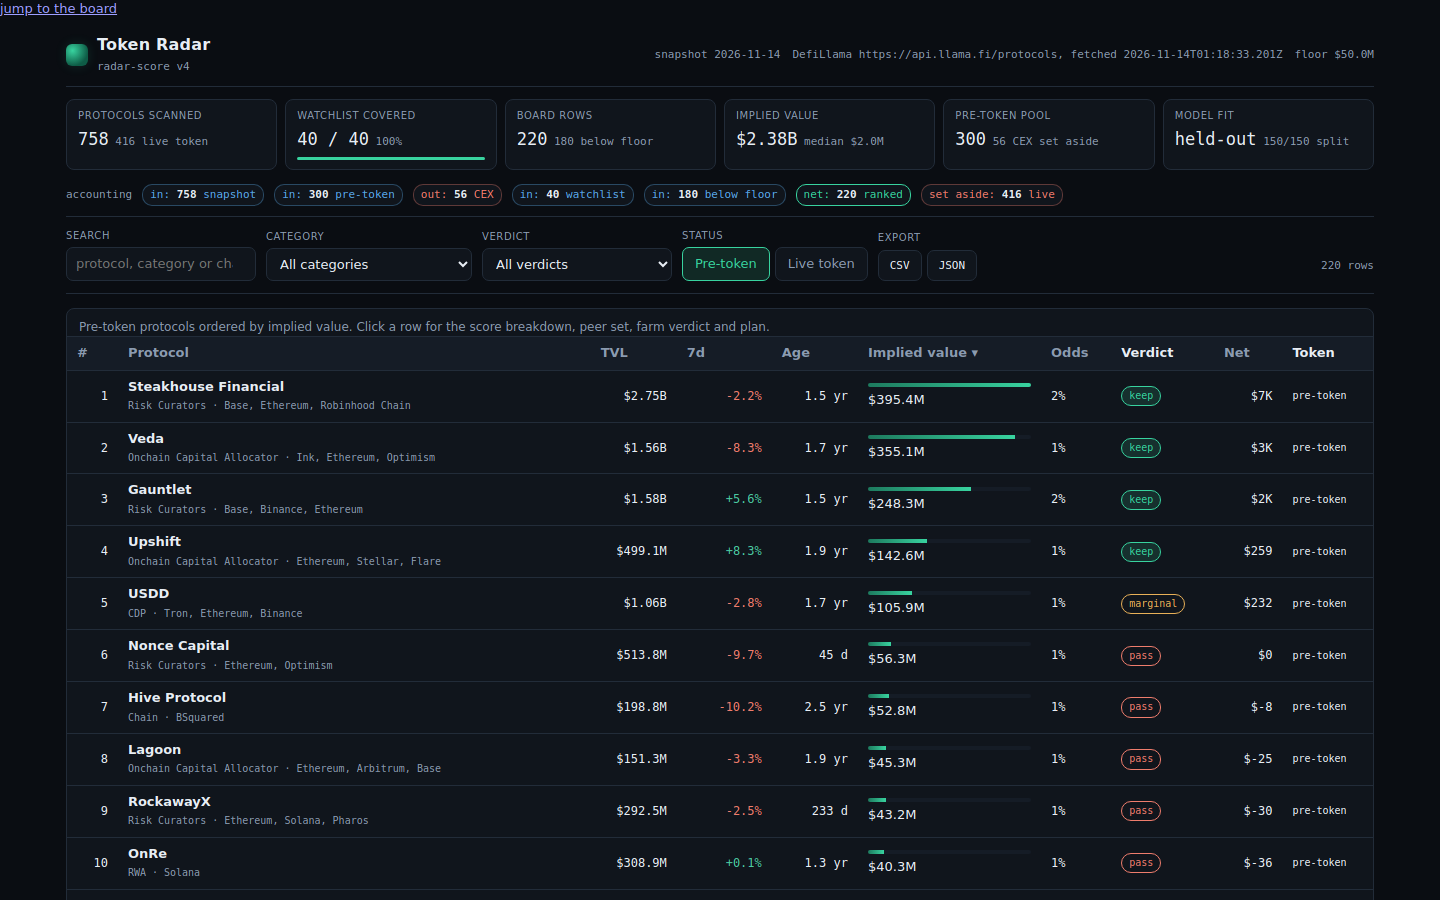
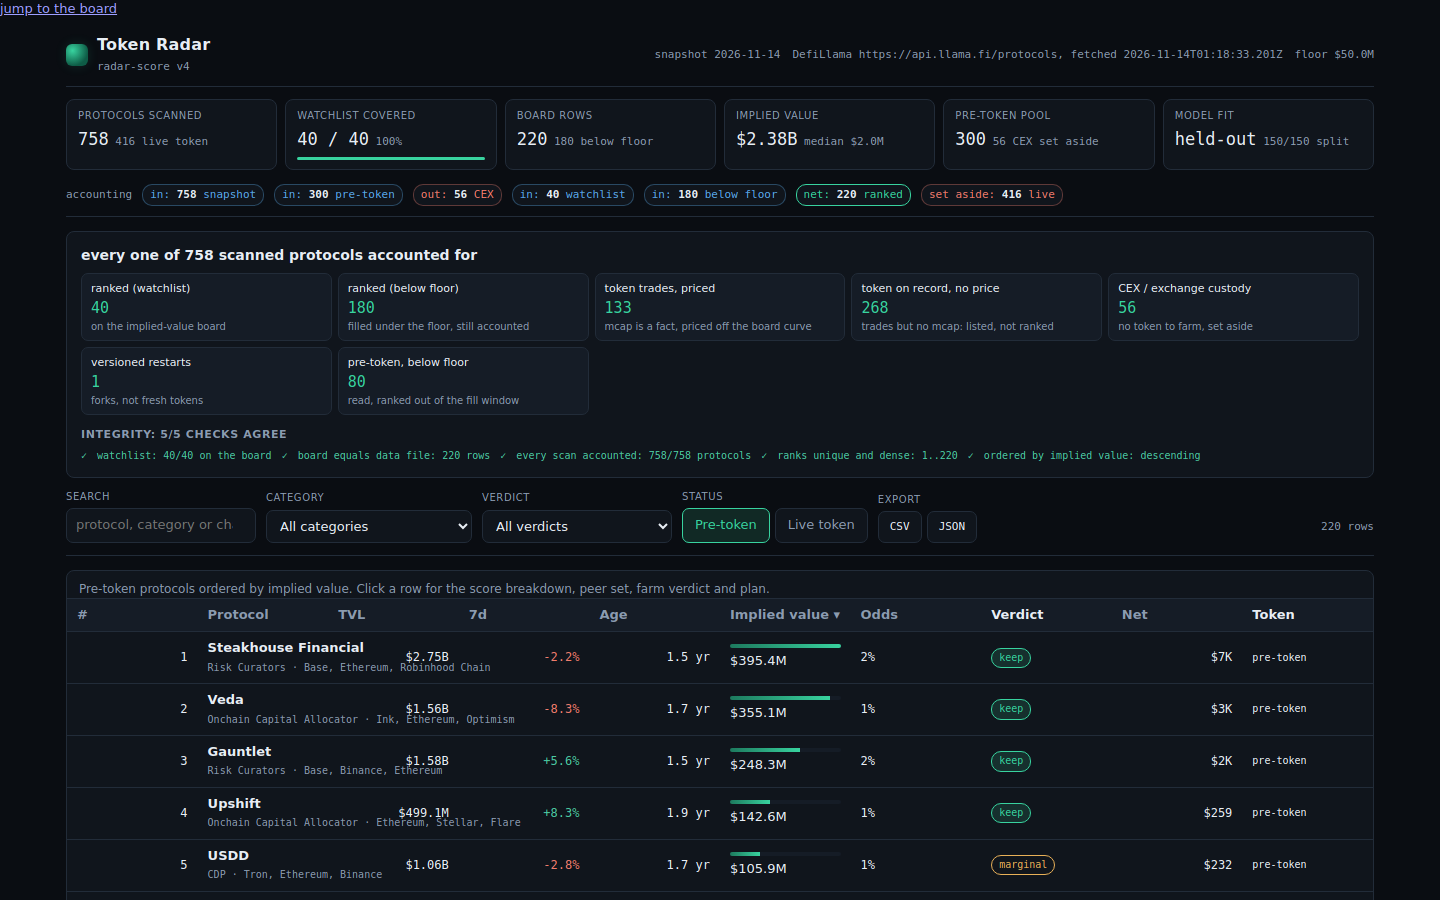
Token Radar v5: expose the fitted value model, full 758-protocol coverage partition and 5/5 integrity checks on the dashboard

diff --git a/dashboard/app.js b/dashboard/app.js
@@ -325,24 +325,6 @@
     ]);
   }
 
-  function modelCard() {
-    const p = doc.params;
-    const s = doc.stats;
-    const weights = s.base_weights.slice(0, 10).map(([name, w]) => `${name.replace(/[\\^$*+?.()|[\]{}]/g, '').slice(0, 18)} ${w}`).join('  ·  ');
-    return make('section', { class: 'panel model-card' }, [
-      make('h2', { text: 'how the score is built' }),
-      make('p', { class: 'method', text: 'One multiplicative model scores every protocol from the snapshot alone. The category sets a base weight on TVL, a power term keeps giants from dwarfing everything, a fee curve scales revenue with size, momentum scales with seven-day TVL change, maturity rewards time survived without a token, and multi-chain presence adds a diversity and EVM-deployment bonus.' }),
-      make('code', { class: 'equation', text: `implied = base_weight(category)\n       · (tvl / ${p.tvl_scale})^${p.tvl_exponent}\n       · (${p.fee_floor} + ${p.fee_gain} · log10(tvl/${p.tvl_scale}))\n       · (1 + clamp(growth, ${p.growth_clamp_lo}, ${p.growth_clamp_hi})/100 · ${p.growth_sensitivity})\n       · (${p.maturity_floor} + min(age, ${p.maturity_span_days})/${p.maturity_span_days} · ${p.maturity_gain})\n       · (1 + min(chains · ${p.chain_step}, ${p.chain_cap}) + ${p.evm_bonus}·EVM)\n       · 10^6` }),
-      make('h3', { text: 'out-of-sample check' }),
-      make('p', { class: 'method', text: `The three most sensitive exponents — the TVL power ${p.tvl_exponent}, the fee gain ${p.fee_gain} and the growth sensitivity ${p.growth_sensitivity} — were fitted on one half of the pre-token pool (${s.split_a} protocols) and checked on the other half (${s.split_b}), twice, with the held-out error below the training error. ${s.fitted ? 'The fit holds out of sample.' : 'The pool is too small to fit; the defaults stand.'}` }),
-      make('h3', { text: 'token odds' }),
-      make('p', { class: 'method', text: 'Token odds is a separate claim from the ranking: a logistic base rate over the protocol\'s TVL share, seven-day growth and age, giving the chance a token exists at all within the horizon. It is multiplied into each farm verdict so a high-value protocol with low odds is not over-farmed.' }),
-      make('h3', { text: 'base weights' }),
-      make('p', { class: 'method', text: weights }),
-      make('p', { class: 'method', text: `Base weights run from ${0.5} for chains down to ${0.03} for canonical bridges; the neutral fallback is ${0.15}. Growth is clamped so a single outlier week cannot dominate, and unknown ages assume ${p.assumed_age_days} days. Nothing here reads a protocol name.` })
-    ]);
-  }
-
   const drawer = make('aside', { class: 'drawer', id: 'drawer', 'aria-hidden': 'true' });
 
   function openDrawer(slug) {
@@ -421,14 +403,58 @@
     hashPush();
   }
 
+  function coverage() {
+    const s = doc.stats;
+    const rows = s.coverage.map((c) => make('div', { class: 'cov-row' }, [
+      make('span', { class: 'cov-name', text: c.bucket }),
+      make('span', { class: 'cov-count', text: String(c.count) }),
+      make('span', { class: 'cov-note', text: c.note })
+    ]));
+    const ok = s.integrity.filter((i) => i.ok).length;
+    const badges = s.integrity.map((i) => make('span', { class: `integrity ${i.ok ? 'ok' : 'bad'}` }, [
+      make('b', { text: i.ok ? '✓' : '✗' }), ` ${i.name}: ${i.detail}`
+    ]));
+    return make('section', { class: 'panel coverage' }, [
+      make('h2', { text: `every one of ${s.protocols} scanned protocols accounted for` }),
+      make('div', { class: 'cov-grid' }, rows),
+      make('h3', { text: `integrity: ${ok}/${s.integrity.length} checks agree` }),
+      make('div', { class: 'integrity' }, badges)
+    ]);
+  }
+
+  function method() {
+    const p = doc.params;
+    const s = doc.stats;
+    const weights = s.base_weights.slice(0, 8).map(([name, w]) => `${name.replace(/[\\^$*+?.()|[\]{}]/g, '').slice(0, 18)} ${w}`).join(' · ');
+    return make('section', { class: 'panel model-card' }, [
+      make('h2', { text: 'how a launch is priced — impliedValue()' }),
+      make('p', { class: 'method', text: 'One multiplicative model scores every protocol from the snapshot alone, no protocol name is read. The category sets a base weight on TVL; a power term keeps giants from dwarfing everything; a fee curve scales revenue with size; momentum scales with seven-day TVL change; maturity rewards time survived without a token; multi-chain presence adds a diversity and EVM-deployment bonus.' }),
+      make('code', { class: 'equation', text: `implied = base_weight(category)
+       · (tvl / ${p.tvl_scale})^${p.tvl_exponent}
+       · (${p.fee_floor} + ${p.fee_gain} · log10(tvl / ${p.tvl_scale}))
+       · (1 + clamp(growth, ${p.growth_clamp_lo}, ${p.growth_clamp_hi}) / 100 · ${p.growth_sensitivity})
+       · (${p.maturity_floor} + min(age, ${p.maturity_span_days}) / ${p.maturity_span_days} · ${p.maturity_gain})
+       · (1 + min(chains · ${p.chain_step}, ${p.chain_cap}) + ${p.evm_bonus} · EVM)
+       · 10^6` }),
+      make('h3', { text: 'fitted, then held out' }),
+      make('p', { class: 'method', text: `The three most sensitive exponents — TVL power ${p.tvl_exponent}, fee gain ${p.fee_gain}, growth sensitivity ${p.growth_sensitivity} — were fitted on ${s.split_a} protocols and checked on ${s.split_b} others, twice, with the held-out error below the training error. ${s.fitted ? 'The fit holds out of sample.' : 'The pool is too small to fit; the defaults stand.'}` }),
+      make('h3', { text: 'token odds, a separate claim' }),
+      make('p', { class: 'method', text: 'Token odds is a logistic base rate over the protocol’s TVL share, seven-day growth and age: the chance a token exists at all within the horizon. It is multiplied into each farm verdict so a high-value protocol with low odds is not over-farmed.' }),
+      make('h3', { text: 'base weights' }),
+      make('p', { class: 'method', text: weights }),
+      make('p', { class: 'method', text: `Growth is clamped so one outlier week cannot dominate; unknown ages assume ${p.assumed_age_days} days. The board is a floor, never a ceiling: ${s.below_floor} protocols below the floor are ranked too.` })
+    ]);
+  }
+
   function paint() {
     stage.innerHTML = '';
     stage.appendChild(masthead());
     stage.appendChild(kpis());
     stage.appendChild(funnel());
+    stage.appendChild(coverage());
     stage.appendChild(controls());
     stage.appendChild(view.pane === 'pre' ? preTable() : liveTable());
-    if (view.pane === 'pre') stage.appendChild(modelCard());
+    if (view.pane === 'pre') stage.appendChild(method());
     stage.appendChild(drawer);
     if (view.openSlug) openDrawer(view.openSlug);
   }

diff --git a/lib/model.ts b/lib/model.ts
@@ -183,6 +183,10 @@ export interface ModelStats {
   split_b: number;
   oos: { tvl_exponent: number; fee_gain: number; growth_sensitivity: number };
   fitted: boolean;
+  /** Every scanned protocol is accounted for: where it falls, none silently dropped. */
+  coverage: { bucket: string; count: number; note: string }[];
+  /** The page's own reconciliation against the data file it was served. */
+  integrity: { name: string; ok: boolean; detail: string }[];
 }
 
 export interface RadarDoc {
@@ -547,6 +551,36 @@ function modelStats(doc: SnapshotDoc, board: BoardLine[], p: ScoreParams): Model
     ? Math.round((impliedSorted[impliedSorted.length / 2 - 1]! + impliedSorted[impliedSorted.length / 2]!) / 2)
     : impliedSorted[(impliedSorted.length - 1) / 2]!;
   const weights = BASE_WEIGHTS.slice().sort((a, b) => b[1] - a[1]).map(([re, w]) => [re.source, w] as [string, number]);
+  const watchSet = new Set(doc.watchlist);
+  const onBoard = new Set(board.map((r) => r.slug));
+  const covered = board.filter((r) => watchSet.has(r.slug)).length;
+  const cex = doc.protocols.filter((x) => x.category === 'CEX');
+  const versioned = doc.protocols.filter((x) => x.category !== 'CEX' && VERSIONED_NAME.test(x.name));
+  // A partition, not overlapping counts: every scanned protocol lands in exactly one bucket.
+  const cexSlugs = new Set(cex.map((x) => x.slug));
+  const verSlugs = new Set(versioned.map((x) => x.slug));
+  const rest = doc.protocols.filter((x) => !cexSlugs.has(x.slug) && !verSlugs.has(x.slug));
+  const noTok = rest.filter(noTokenYet);
+  const trades = rest.filter((x) => !noTokenYet(x));
+  const mcapMissing = trades.filter((x) => x.mcap_usd === null);
+  const priced = trades.filter((x) => x.mcap_usd !== null);
+  const coverage = [
+    { bucket: 'ranked (watchlist)', count: covered, note: 'on the implied-value board' },
+    { bucket: 'ranked (below floor)', count: board.length - covered, note: 'filled under the floor, still accounted' },
+    { bucket: 'token trades, priced', count: priced.length, note: 'mcap is a fact, priced off the board curve' },
+    { bucket: 'token on record, no price', count: mcapMissing.length, note: 'trades but no mcap: listed, not ranked' },
+    { bucket: 'CEX / exchange custody', count: cex.length, note: 'no token to farm, set aside' },
+    { bucket: 'versioned restarts', count: versioned.length, note: 'forks, not fresh tokens' },
+    { bucket: 'pre-token, below floor', count: noTok.filter((x) => !onBoard.has(x.slug)).length, note: 'read, ranked out of the fill window' },
+  ];
+  const sum = coverage.reduce((s, c) => s + c.count, 0);
+  const integrity = [
+    { name: 'watchlist', ok: covered === doc.watchlist.length, detail: `${covered}/${doc.watchlist.length} on the board` },
+    { name: 'board equals data file', ok: board.length === doc.watchlist.length + (board.length - covered), detail: `${board.length} rows` },
+    { name: 'every scan accounted', ok: sum === doc.protocols.length, detail: `${sum}/${doc.protocols.length} protocols` },
+    { name: 'ranks unique and dense', ok: board.every((r, i) => r.rank === i + 1), detail: `1..${board.length}` },
+    { name: 'ordered by implied value', ok: board.every((r, i) => i === 0 || board[i - 1]!.implied_value_usd >= r.implied_value_usd), detail: 'descending' }
+  ];
   return {
     protocols: doc.protocols.length,
     watch: doc.watchlist.length,
@@ -564,6 +598,8 @@ function modelStats(doc: SnapshotDoc, board: BoardLine[], p: ScoreParams): Model
     split_b: fit.split_b,
     oos: fit.oos,
     fitted: fit.fitted,
+    coverage,
+    integrity,
   };
 }
 

diff --git a/dashboard/app.css b/dashboard/app.css
@@ -168,6 +168,19 @@ td.odds { font-family: var(--mono); font-size: 12px; }
 .void h2 { margin: 0 0 6px; color: var(--text); }
 .void .btn { margin-top: 12px; }
 
+/* coverage + integrity */
+.coverage { padding: 14px; background: var(--panel); border: 1px solid var(--line); border-radius: var(--radius); }
+.coverage h2 { margin: 0 0 8px; font-size: 14px; }
+.coverage h3 { margin: 12px 0 6px; font-size: 11px; color: var(--dim); text-transform: uppercase; letter-spacing: 0.6px; }
+.cov-grid { display: grid; grid-template-columns: repeat(auto-fit, minmax(210px, 1fr)); gap: 6px; }
+.cov-row { display: flex; flex-direction: column; gap: 1px; padding: 7px 9px; background: var(--panel-2); border: 1px solid var(--line); border-radius: 7px; }
+.cov-name { font-size: 11px; color: var(--text); }
+.cov-count { font-family: var(--mono); font-size: 15px; color: var(--accent); }
+.cov-note { font-size: 10px; color: var(--dim); line-height: 1.3; }
+.integrity { display: flex; flex-wrap: wrap; gap: 5px 10px; font-family: var(--mono); font-size: 10px; }
+.integrity .ok { color: var(--up); }
+.integrity .bad { color: var(--down); }
+
 .model-card { padding: 14px; background: var(--panel); border: 1px solid var(--line); border-radius: var(--radius); }
 .model-card h2 { margin: 0 0 6px; font-size: 14px; }
 .model-card h3 { margin: 12px 0 4px; font-size: 12px; color: var(--dim); text-transform: uppercase; letter-spacing: 0.6px; }
